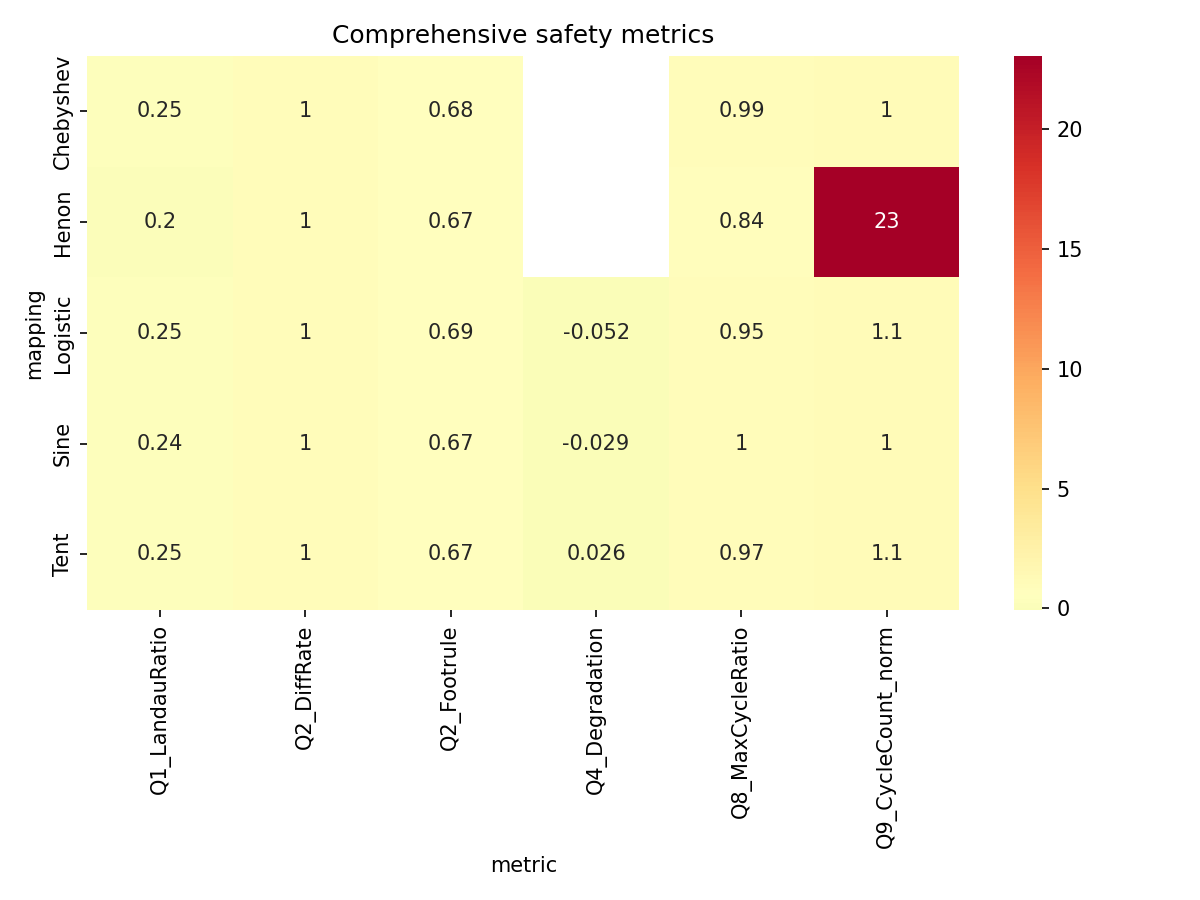
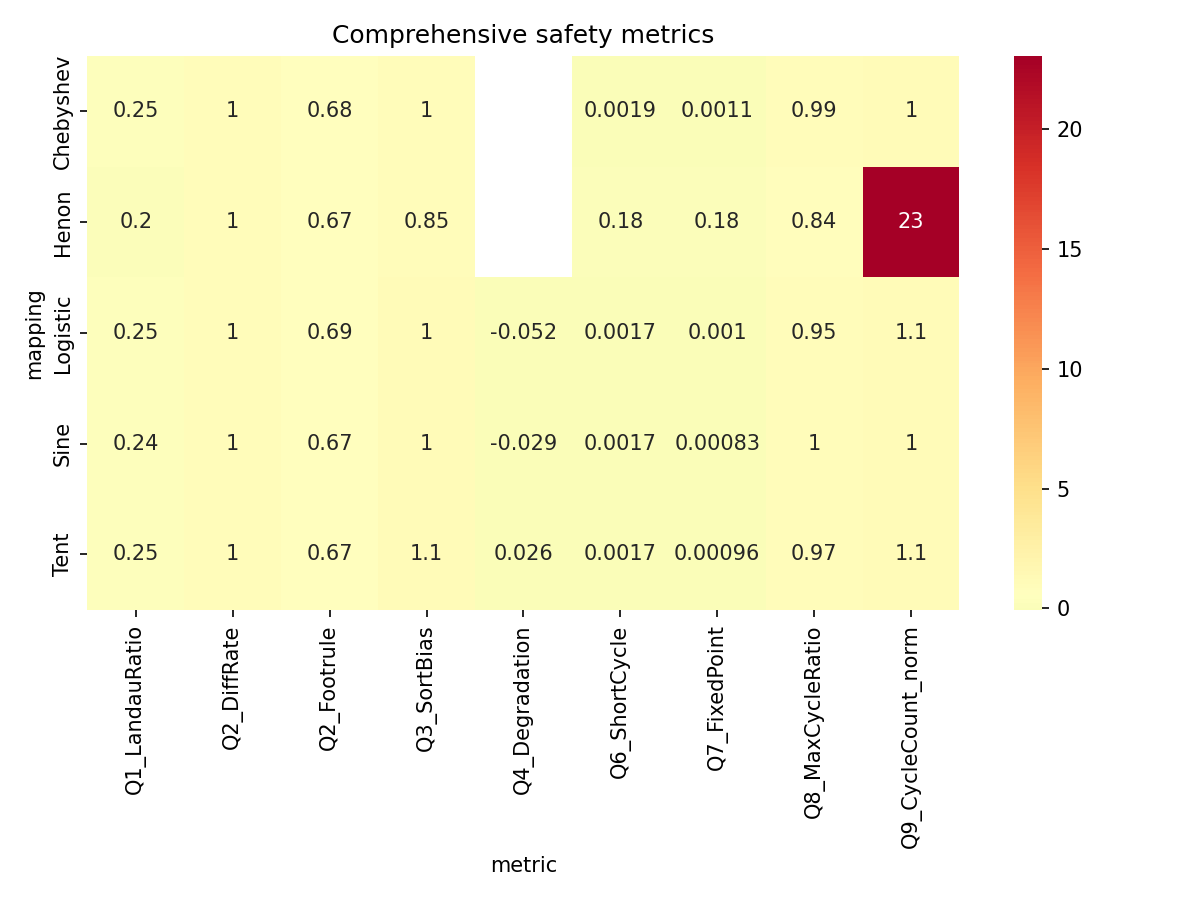
feat: add Fisher-Yates baseline to CSV, extend _single_run with Q6/Q7 cycle metrics, wire Q3/Q6/Q7 into fig6

diff --git a/main.py b/main.py
@@ -44,14 +44,6 @@ def main():
         results[name] = df
         df.insert(0, "mapping", name)
         all_records.append(df)
-    pd.concat(all_records, ignore_index=True).to_csv(
-        os.path.join(DATA_DIR, "avg_ln_order.csv"), index=False
-    )
-
-    landau_ref = pd.DataFrame({
-        "N": N_LIST,
-        "ln_order": landau_ln_order(np.array(N_LIST, dtype=float)),
-    })
 
     fy_records = []
     for N in N_LIST:
@@ -66,7 +58,20 @@ def main():
             order = permutation_order(cycles)
             orders.append(math.log(order) if order > 0 else 0.0)
         fy_records.append({"N": N, "avg_ln_order": np.mean(orders)})
-    fisher_yates_ref = pd.DataFrame(fy_records)
+
+    fy_df = pd.DataFrame(fy_records)
+    fy_df.insert(0, "mapping", "Fisher-Yates")
+    all_records.append(fy_df)
+    pd.concat(all_records, ignore_index=True).to_csv(
+        os.path.join(DATA_DIR, "avg_ln_order.csv"), index=False
+    )
+
+    landau_ref = pd.DataFrame({
+        "N": N_LIST,
+        "ln_order": landau_ln_order(np.array(N_LIST, dtype=float)),
+    })
+
+    fisher_yates_ref = fy_df
 
     print("[2/8] Generating fig1 (avg ln order) ...")
     fig1_avg_ln_order(results, landau_ref, fisher_yates_ref,
@@ -137,22 +142,30 @@ def main():
             safety_records.append({"mapping": name, "metric": "Q2_DiffRate", "value": av_row.iloc[0]["diff_rate"]})
             safety_records.append({"mapping": name, "metric": "Q2_Footrule", "value": av_row.iloc[0]["footrule"]})
 
-    for name in MAP_CONFIGS:
-        sub = precision_df[(precision_df["mapping"] == name) & (precision_df["N"] == 256)]
-        if not sub.empty:
-            f32 = sub[sub["precision"] == "float32"]["ln_order"].mean()
-            dec = sub[sub["precision"] == "Decimal(50)"]["ln_order"].mean()
+        sub_prec = precision_df[(precision_df["mapping"] == name) & (precision_df["N"] == 256)]
+        if not sub_prec.empty:
+            f32 = sub_prec[sub_prec["precision"] == "float32"]["ln_order"].mean()
+            dec = sub_prec[sub_prec["precision"] == "Decimal(50)"]["ln_order"].mean()
             deg = (dec - f32) / dec if dec > 0 else 0
             safety_records.append({"mapping": name, "metric": "Q4_Degradation", "value": deg})
 
-    for name in MAP_CONFIGS:
-        sub = sorting_df[sorting_df["group"] == f"Chaos-{name}"]
-        fy = sorting_df[sorting_df["group"] == "Fisher-Yates"]
-        if not sub.empty and not fy.empty:
-            lr = sub["max_cycle_ratio"].mean() / fy["max_cycle_ratio"].mean() if fy["max_cycle_ratio"].mean() > 0 else 1
+        sub_sort = sorting_df[sorting_df["group"] == f"Chaos-{name}"]
+        fy_row = sorting_df[sorting_df["group"] == "Fisher-Yates"]
+        if not sub_sort.empty and not fy_row.empty:
+            fy_ln = fy_row["ln_order"].mean()
+            chaos_ln = sub_sort["ln_order"].mean()
+            q3 = chaos_ln / fy_ln if fy_ln > 0 else 1
+            safety_records.append({"mapping": name, "metric": "Q3_SortBias", "value": q3})
+
+            lr = sub_sort["max_cycle_ratio"].mean() / fy_row["max_cycle_ratio"].mean() if fy_row["max_cycle_ratio"].mean() > 0 else 1
             safety_records.append({"mapping": name, "metric": "Q8_MaxCycleRatio", "value": lr})
-            cc = sub["cycle_count"].mean() / math.log(1024)
+            cc = sub_sort["cycle_count"].mean() / math.log(1024)
             safety_records.append({"mapping": name, "metric": "Q9_CycleCount_norm", "value": cc})
+
+        row = results[name].set_index("N")
+        if 1024 in row.index:
+            safety_records.append({"mapping": name, "metric": "Q6_ShortCycle", "value": row.loc[1024, "avg_short_cycle_ratio"]})
+            safety_records.append({"mapping": name, "metric": "Q7_FixedPoint", "value": row.loc[1024, "avg_fixed_point_ratio"]})
 
     safety_df = pd.DataFrame(safety_records)
     fig6_summary_metrics(safety_df,

diff --git a/src/analysis.py b/src/analysis.py
@@ -27,7 +27,12 @@ def _single_run(args):
     max_cycle_ratio = max_cycle_len / N if N > 0 else 0.0
     total_cycles = sum(cycles.values())
 
-    return ln_order, max_cycle_ratio, total_cycles
+    fixed_point_count = cycles.get(1, 0)
+    fixed_point_ratio = fixed_point_count / N if N > 0 else 0.0
+    short_count = sum(c for length, c in cycles.items() if length <= 3)
+    short_cycle_ratio = short_count / N if N > 0 else 0.0
+
+    return ln_order, max_cycle_ratio, total_cycles, fixed_point_ratio, short_cycle_ratio
 
 
 def batch_avg_ln_order(map_func, params, N_list, num_seeds, warmup=1000):
@@ -50,6 +55,8 @@ def batch_avg_ln_order(map_func, params, N_list, num_seeds, warmup=1000):
         ln_orders = [r[0] for r in results]
         max_ratios = [r[1] for r in results]
         cycle_counts = [r[2] for r in results]
+        fixed_ratios = [r[3] for r in results]
+        short_ratios = [r[4] for r in results]
 
         records.append({
             "N": N,
@@ -57,6 +64,8 @@ def batch_avg_ln_order(map_func, params, N_list, num_seeds, warmup=1000):
             "std_ln_order": float(np.std(ln_orders)),
             "avg_max_cycle_ratio": float(np.mean(max_ratios)),
             "avg_cycle_count": float(np.mean(cycle_counts)),
+            "avg_fixed_point_ratio": float(np.mean(fixed_ratios)),
+            "avg_short_cycle_ratio": float(np.mean(short_ratios)),
         })
     return pd.DataFrame(records)
 